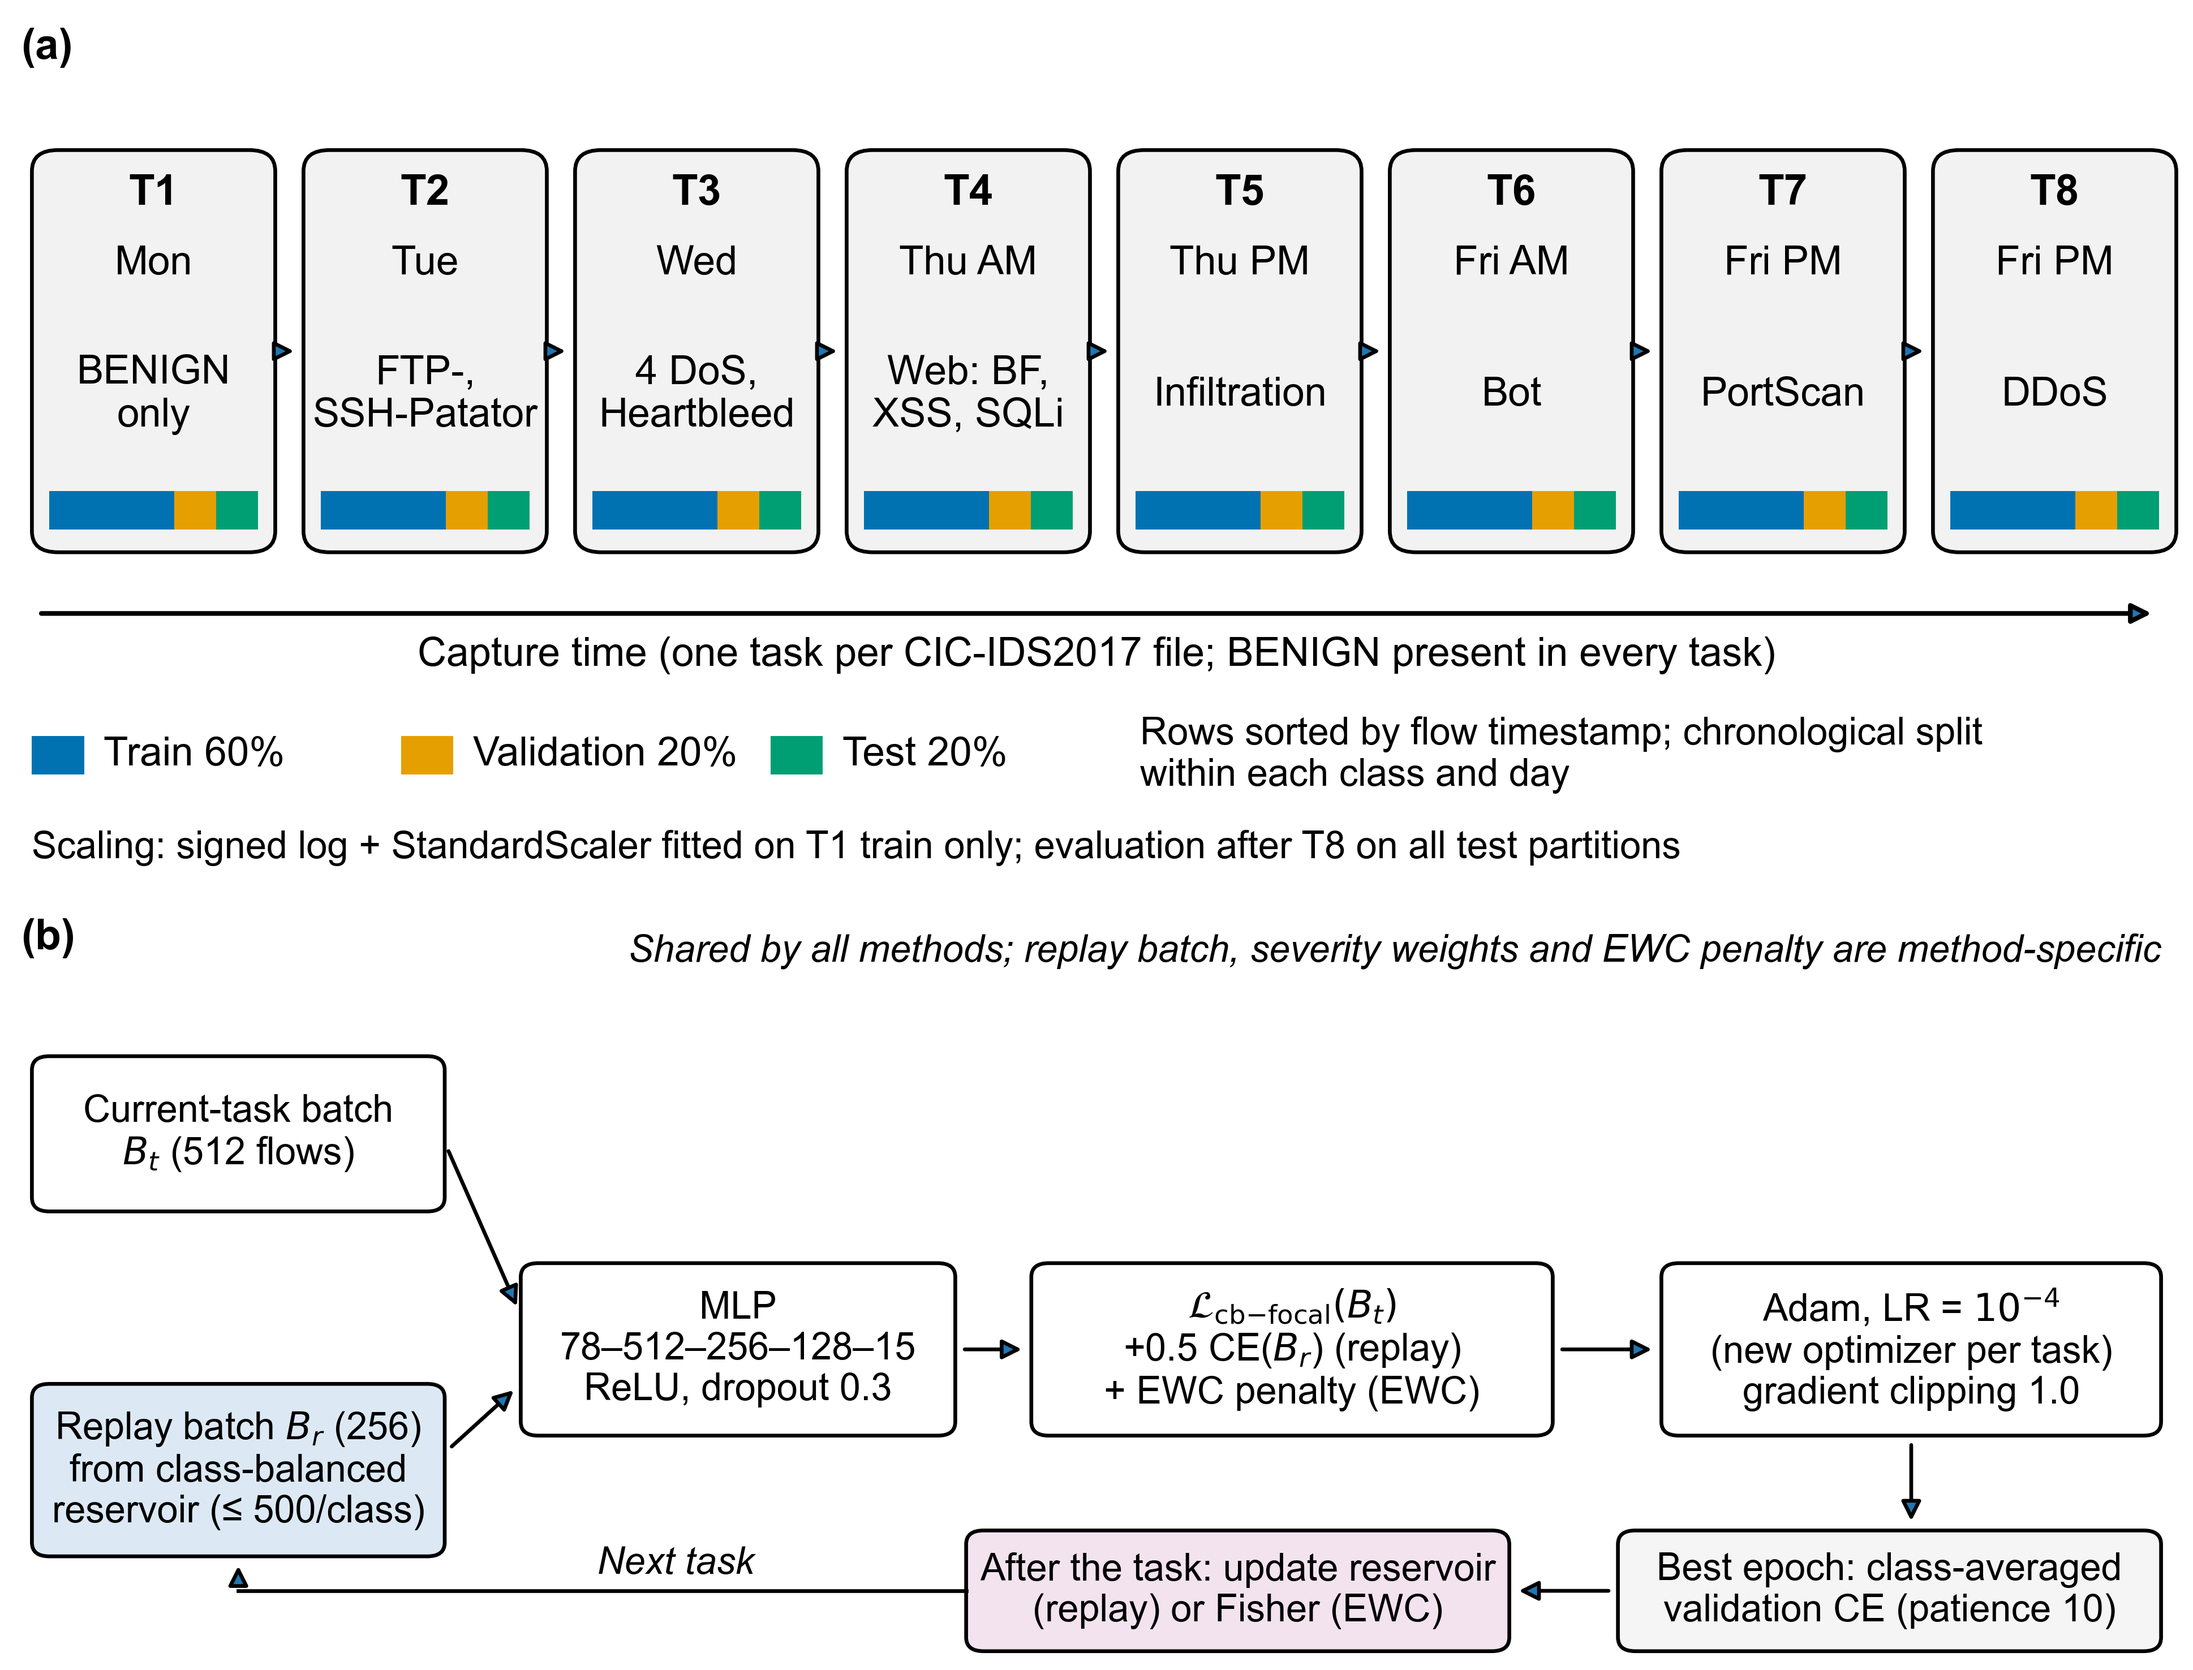
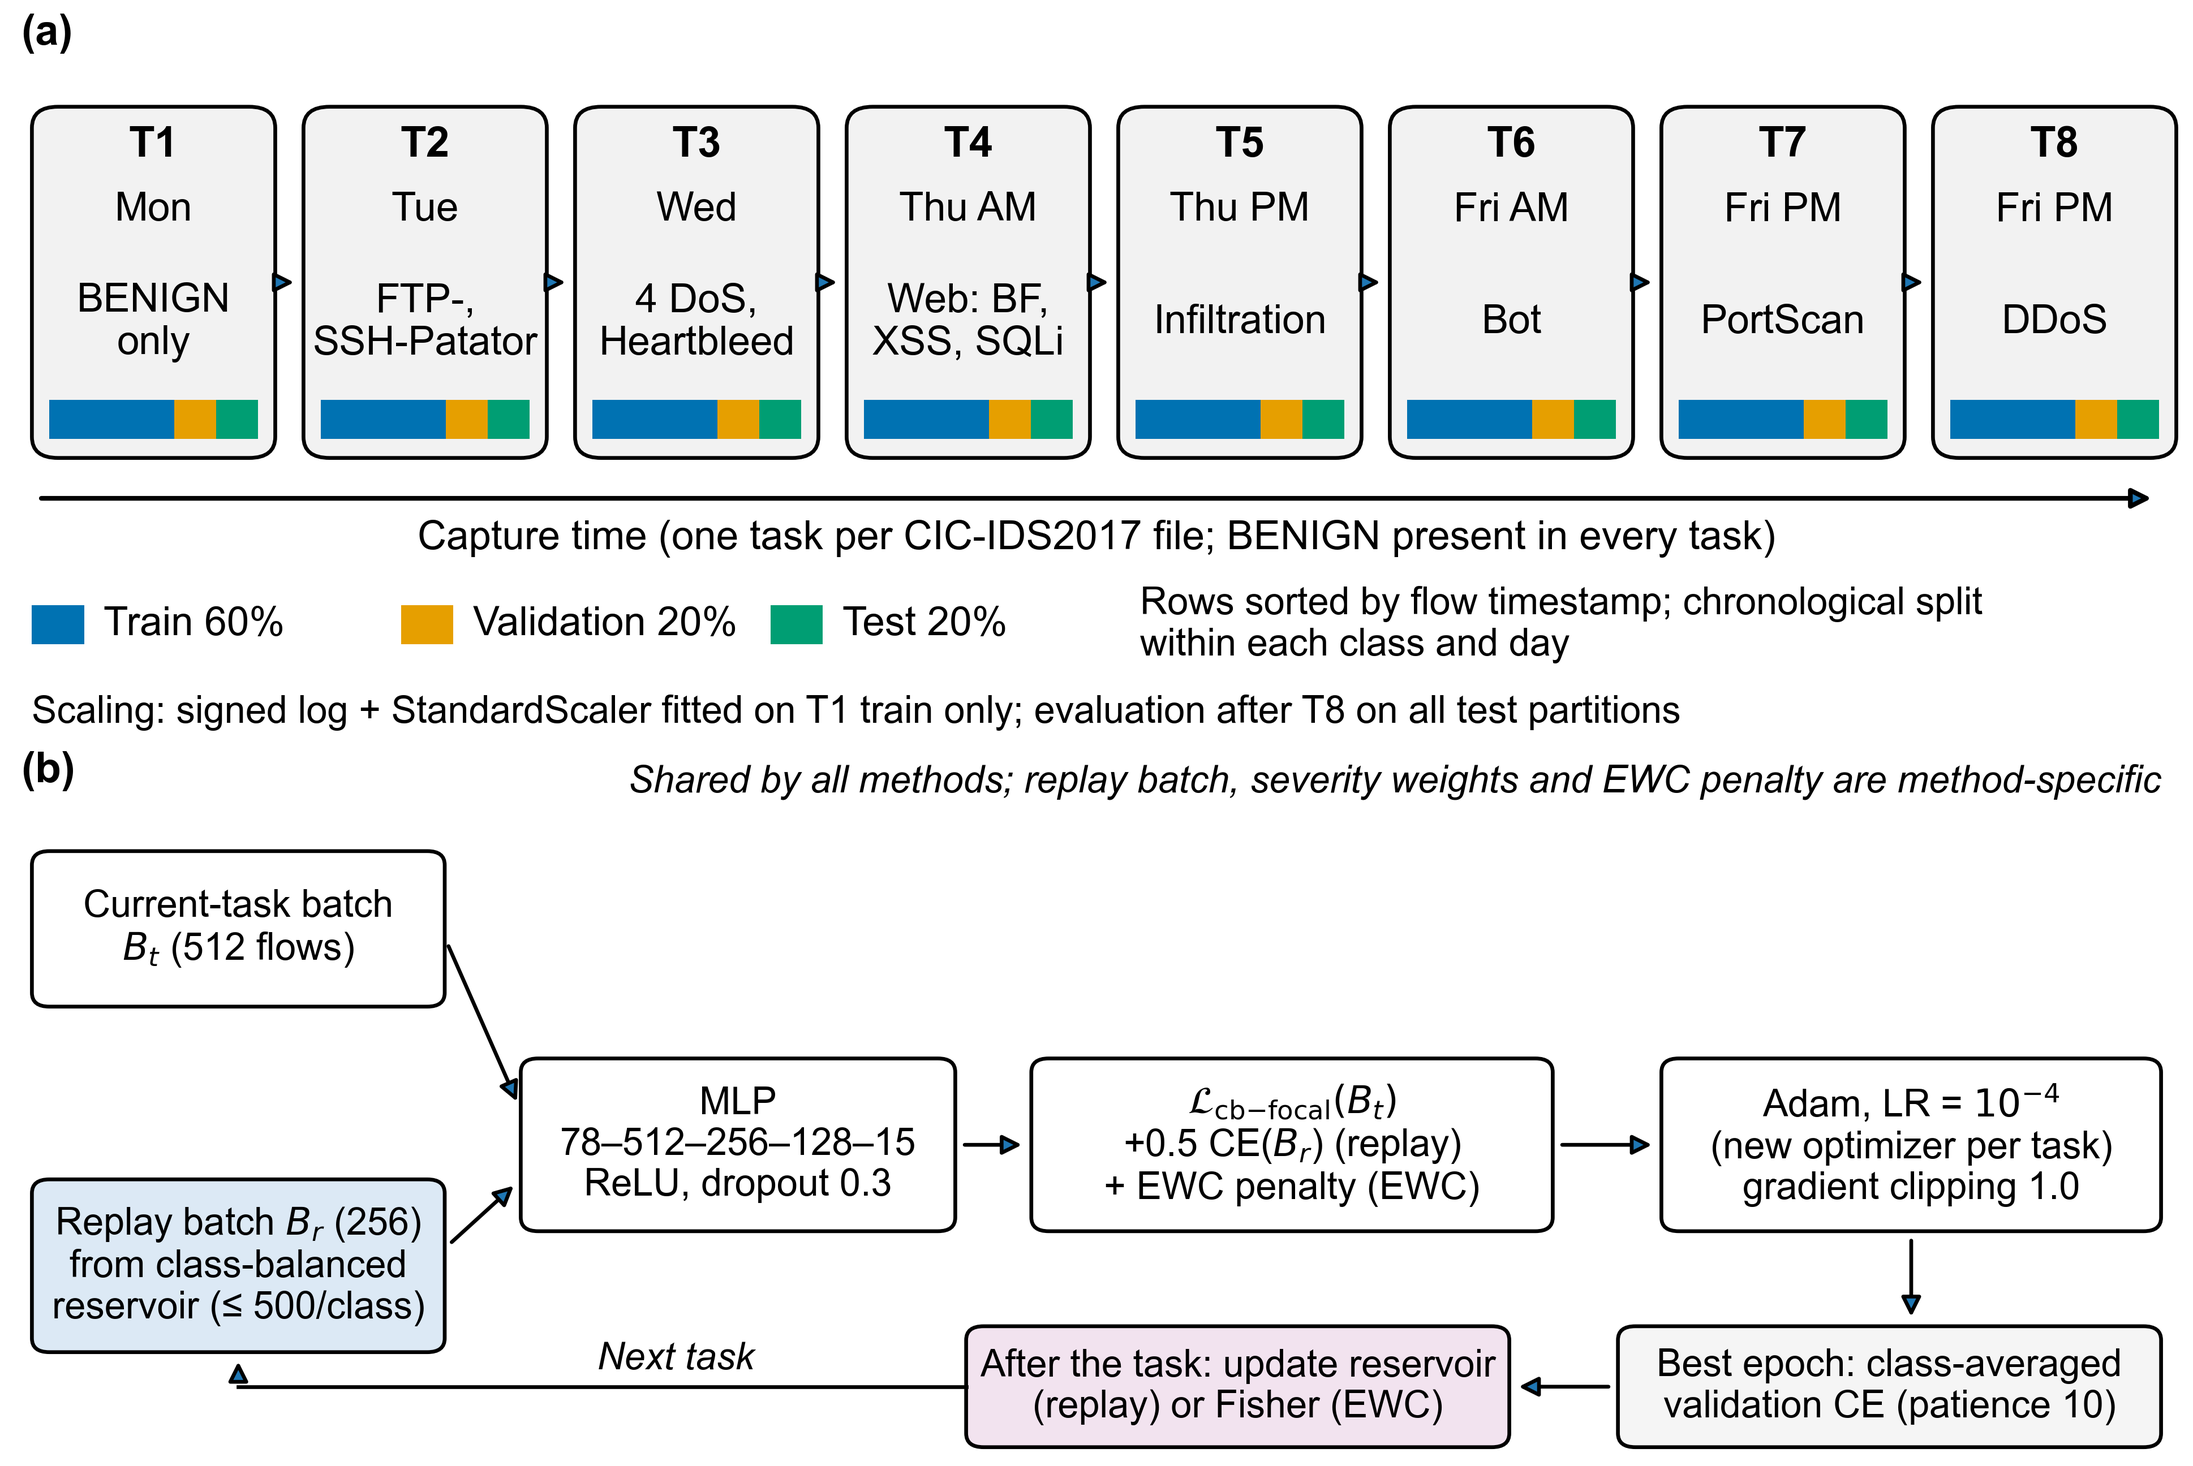
Figures 1 and 4: more compact layout for the 18-page manuscript
Figure 1 (protocol and training loop) and Figure 4 (retention matrices)
are redrawn with less empty vertical space; fonts, content, and results
are unchanged.

diff --git a/revision/figures.py b/revision/figures.py
@@ -36,33 +36,33 @@ def runs_of(exp):
 
 
 def fig1():
-    fig = plt.figure(figsize=(6.4, 4.86))
-    ax = fig.add_axes([0, 0.47, 1, 0.53]); ax.set_xlim(0, 100); ax.set_ylim(0, 50); ax.axis('off')
+    fig = plt.figure(figsize=(6.4, 4.26))
+    ax = fig.add_axes([0, 0.502, 1, 0.498]); ax.set_xlim(0, 100); ax.set_ylim(0, 41); ax.axis('off')
     tasks = [('T1', 'Mon', 'BENIGN\nonly'), ('T2', 'Tue', 'FTP-,\nSSH-Patator'), ('T3', 'Wed', '4 DoS,\nHeartbleed'),
              ('T4', 'Thu AM', 'Web: BF,\nXSS, SQLi'), ('T5', 'Thu PM', 'Infiltration'), ('T6', 'Fri AM', 'Bot'),
              ('T7', 'Fri PM', 'PortScan'), ('T8', 'Fri PM', 'DDoS')]
-    ax.text(0.5, 49, '(a)', fontsize=9, weight='bold', va='top')
+    ax.text(0.5, 40.8, '(a)', fontsize=9, weight='bold', va='top')
     w, g = 11.2, 1.3
     for i, (t, d, c) in enumerate(tasks):
         x = 1 + i * (w + g)
-        ax.add_patch(FancyBboxPatch((x, 19), w, 23, boxstyle='round,pad=0,rounding_size=1.2', fc='#F2F2F2', ec='k', lw=0.8))
-        ax.text(x + w / 2, 39.5, t, ha='center', va='center', weight='bold', fontsize=9)
-        ax.text(x + w / 2, 35.5, d, ha='center', va='center', fontsize=8.5)
-        ax.text(x + w / 2, 28, c, ha='center', va='center', fontsize=8.5)
+        ax.add_patch(FancyBboxPatch((x, 15.5), w, 20, boxstyle='round,pad=0,rounding_size=1.2', fc='#F2F2F2', ec='k', lw=0.8))
+        ax.text(x + w / 2, 33.3, t, ha='center', va='center', weight='bold', fontsize=9)
+        ax.text(x + w / 2, 29.6, d, ha='center', va='center', fontsize=8.5)
+        ax.text(x + w / 2, 23.2, c, ha='center', va='center', fontsize=8.5)
         for (a, b, col) in ((0, 0.6, '#0072B2'), (0.6, 0.8, '#E69F00'), (0.8, 1.0, '#009E73')):
-            ax.add_patch(Rectangle((x + 0.8 + a * (w - 1.6), 20.3), (b - a) * (w - 1.6), 2.2, fc=col, ec='none'))
+            ax.add_patch(Rectangle((x + 0.8 + a * (w - 1.6), 16.6), (b - a) * (w - 1.6), 2.2, fc=col, ec='none'))
         if i < 7:
-            ax.annotate('', xy=(x + w + g, 30.5), xytext=(x + w, 30.5), arrowprops=dict(arrowstyle='-|>', lw=0.8))
-    ax.annotate('', xy=(99, 15.5), xytext=(1, 15.5), arrowprops=dict(arrowstyle='-|>', lw=1))
-    ax.text(50, 12.5, 'Capture time (one task per CIC-IDS2017 file; BENIGN present in every task)', ha='center', fontsize=8.5)
+            ax.annotate('', xy=(x + w + g, 25.5), xytext=(x + w, 25.5), arrowprops=dict(arrowstyle='-|>', lw=0.8))
+    ax.annotate('', xy=(99, 13.2), xytext=(1, 13.2), arrowprops=dict(arrowstyle='-|>', lw=1))
+    ax.text(50, 10.3, 'Capture time (one task per CIC-IDS2017 file; BENIGN present in every task)', ha='center', fontsize=8.5)
     for k, (lab, col) in enumerate((('Train 60%', '#0072B2'), ('Validation 20%', '#E69F00'), ('Test 20%', '#009E73'))):
-        ax.add_patch(Rectangle((1 + k * 17, 6.3), 2.4, 2.2, fc=col)); ax.text(4.3 + k * 17, 7.4, lab, va='center', fontsize=8.5)
-    ax.text(52, 7.4, 'Rows sorted by flow timestamp; chronological split\nwithin each class and day', va='center', fontsize=8)
-    ax.text(1, 1.5, 'Scaling: signed log + StandardScaler fitted on T1 train only; evaluation after T8 on all test partitions',
+        ax.add_patch(Rectangle((1 + k * 17, 4.9), 2.4, 2.2, fc=col)); ax.text(4.3 + k * 17, 6.0, lab, va='center', fontsize=8.5)
+    ax.text(52, 6.0, 'Rows sorted by flow timestamp; chronological split\nwithin each class and day', va='center', fontsize=8)
+    ax.text(1, 0.4, 'Scaling: signed log + StandardScaler fitted on T1 train only; evaluation after T8 on all test partitions',
             fontsize=8)
-    bx = fig.add_axes([0, 0, 1, 0.46]); bx.set_xlim(0, 100); bx.set_ylim(0, 44); bx.axis('off')
-    bx.text(0.5, 43, '(b)', fontsize=9, weight='bold', va='top')
-    bx.text(99, 40.5, 'Shared by all methods; replay batch, severity weights and EWC penalty are method-specific',
+    bx = fig.add_axes([0, 0, 1, 0.49]); bx.set_xlim(0, 100); bx.set_ylim(0, 41); bx.axis('off')
+    bx.text(0.5, 40.8, '(b)', fontsize=9, weight='bold', va='top')
+    bx.text(99, 38.4, 'Shared by all methods; replay batch, severity weights and EWC penalty are method-specific',
             ha='right', style='italic', fontsize=8)
     def box(x, y, w, h, txt, fc='white'):
         bx.add_patch(FancyBboxPatch((x, y), w, h, boxstyle='round,pad=0,rounding_size=0.8', fc=fc, ec='k', lw=0.8))
@@ -145,7 +145,7 @@ def fig3(main, counts_support, fn='fig3.png', methods=('ReplayUniform', 'ReplayR
 
 
 def fig4(main, fn='fig4.png', methods=('FineTuning', 'EWC', 'ReplayUniform', 'ReplayRisk')):
-    fig, axs = plt.subplots(2, 2, figsize=(5.0, 4.2), gridspec_kw={'hspace': 0.3, 'wspace': 0.12})
+    fig, axs = plt.subplots(2, 2, figsize=(5.0, 3.95), gridspec_kw={'hspace': 0.26, 'wspace': 0.1})
     for ax, m, tag in zip(axs.flat, methods, 'abcd'):
         Rs = [r['R_macro_recall'] for r in main if r['method'] == m and r.get('R_macro_recall')]
         ax.set_title(f'({tag}) {LAB[m]}', loc='left', weight='bold')
